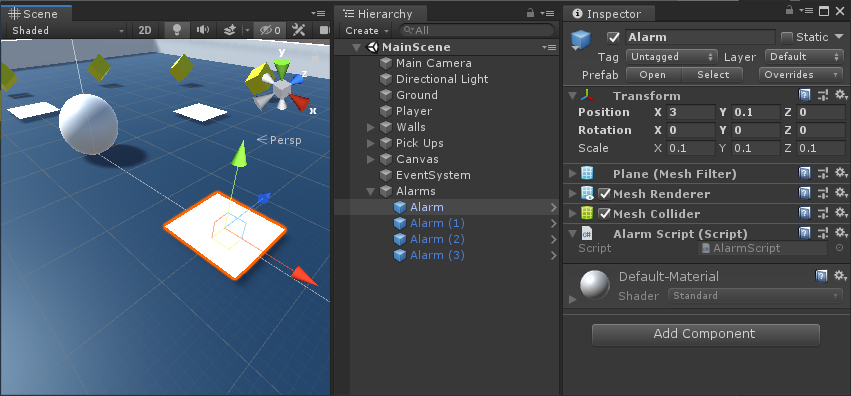
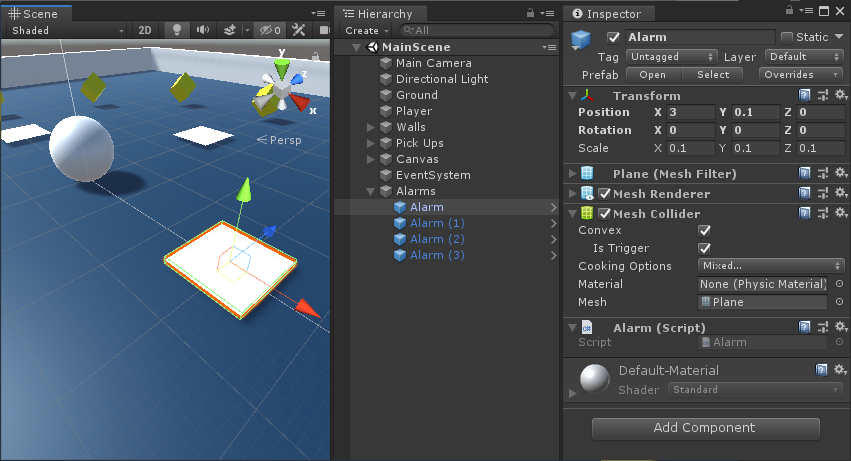
1

diff --git a/STUDY+RND/Unity3D UI Essential/CHAPTER 6 - Working with the UI Source.md b/STUDY+RND/Unity3D UI Essential/CHAPTER 6 - Working with the UI Source.md
@@ -312,5 +312,22 @@
 　
 
 - **경고 누름판 구현**
-    - 바닥에 일종의 누름판을 추가해 공이 그 위로 지나가면 알람이 발생하도록 하자.
+    - 바닥에 누름판을 추가해 공이 그 위로 지나가면 알람이 발생하도록 하자.
+    - Plane 게임 오브젝트 하나 만들고 이름을 "Alarm"으로 변경
+    - Mesh Collider의 Convex와 Is Trigger 속성 체크
+    - 편하게 작업하기 위해 Prefab으로 등록
+    - 공 주변으로 게임오브젝트 4개 적절히 배치
+    - 공이 충돌했을 때 알람판을 제거하는 스크립트 작성 (Alarm.cs)
+        ```
+        using UnityEngine;
+
+        public class Alarm : MonoBehaviour
+        {
+            void OnTriggerEnter(Collider other)
+            {
+                gameObject.SetActive(false);
+            }
+        }
+        ```
+    - "Alarm" Prefab에 스크립트 바인딩
         ![](https://github.com/icodes-studio/wiki/blob/main/STUDY%2BRND/Unity3D%20UI%20Essential/Assets/alarmpanel.png)
